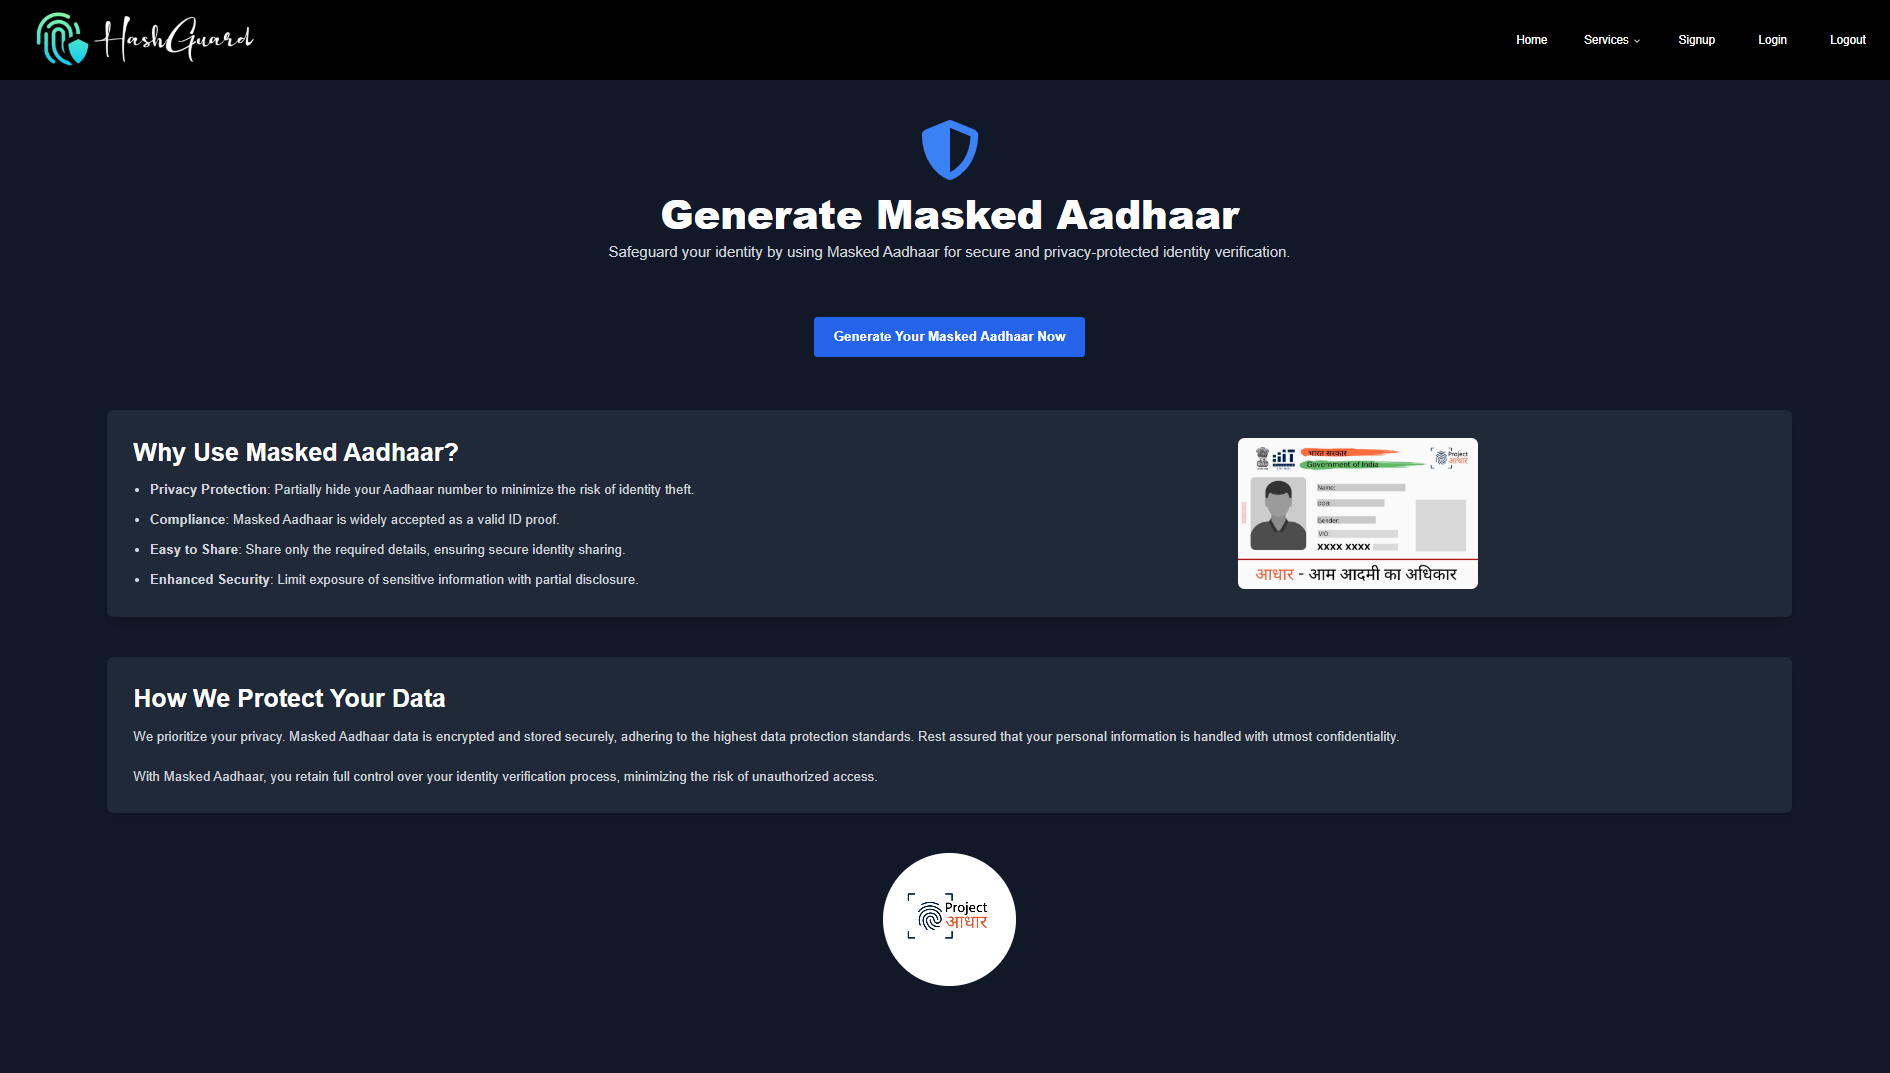
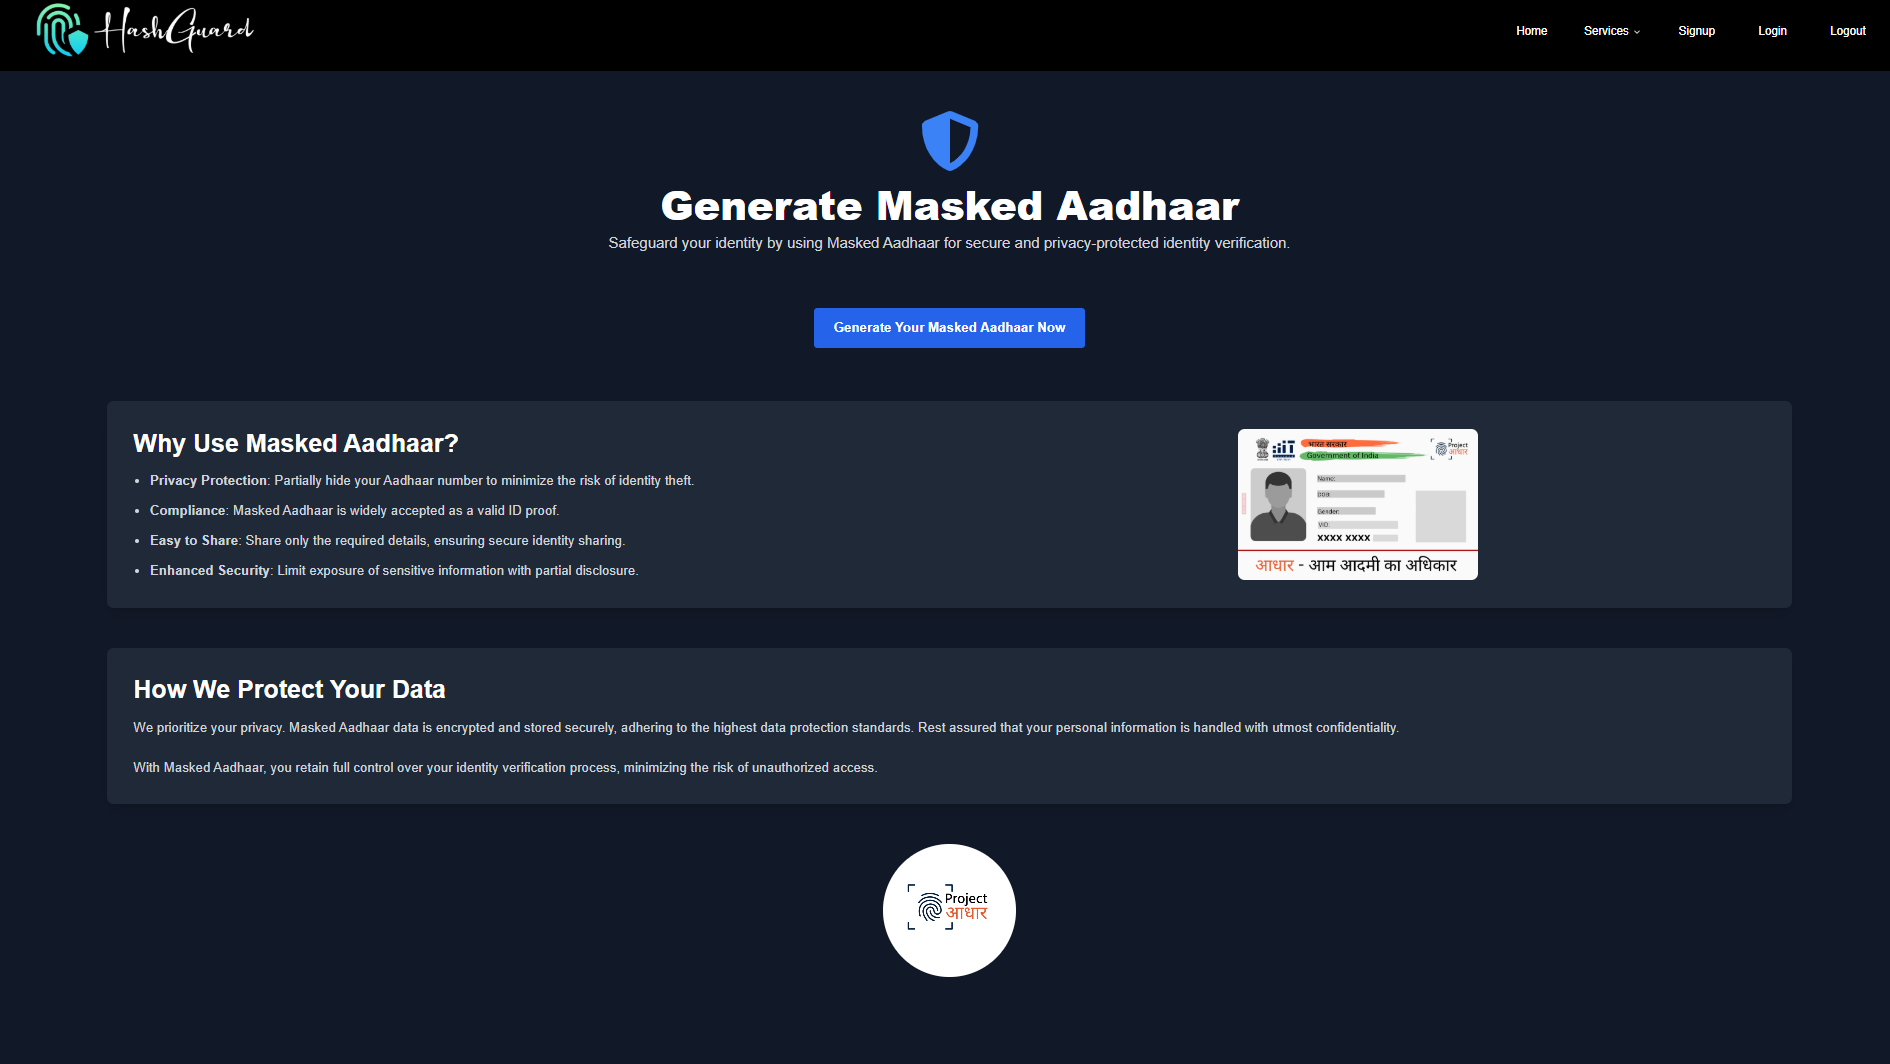
updated readme

diff --git a/README.md b/README.md
@@ -33,15 +33,15 @@ Concluded
 This project is designed to provide a secure identity management system based on the Aadhaar number, using a Virtual ID (VID) for authentication.
 
 <p align="center" style="margin-top: 1rem;">
-<img src="public/homepage_snippet.png" alt="homepage snippet 1" width="400"/>
+<img src="public/homepage_snippet.png" alt="homepage snippet 1" width="450"/>
 </p>
 
 <p align="center" style="margin-top: 1rem;">
-<img src="public/homepage_snippet2.png" alt="homepage snippet 2" width="400"/>
+<img src="public/homepage_snippet2.png" alt="homepage snippet 2" width="450"/>
 </p>
 
 <p align="center" style="margin-top: 1rem;">
-<img src="public/homepage_snippet3.png" alt="homepage snippet 3" width="400"/>
+<img src="public/homepage_snippet3.png" alt="homepage snippet 3" width="450"/>
 </p>
 
 ### **How It Works:**
@@ -50,30 +50,30 @@ This project is designed to provide a secure identity management system based on
    * Users register with their Aadhaar number and email ID. The Aadhaar number is securely stored (hashed/encrypted). 
 
    <p align="center" style="margin-top: 1rem;">
-      <img src="public/signup_page_snippet.png" alt="signup page snippet" width="250"/>
+      <img src="public/signup_snippet.png" alt="signup page snippet" width="450"/>
    </p>
 2. **VID Generation:**  
    * Users can generate a unique VID after verifying their identity through an OTP sent to their registered email. This VID can be used instead of the Aadhaar number for authentication.
 
    <p align="center" style="margin-top: 1rem;">
-   <img src="public/services_snippet.png" alt="services snippet" width="250"/>
+   <img src="public/services_snippet.png" alt="services snippet" width="450"/>
    </p>  
 
 3. **Masked Aadhaar Generation and sent via gmail:**  
    * An Aadhaar-like image is created, displaying the user’s photo (if uploaded) and optional details (address, DOB, etc.), along with the masked Aadhaar number and VID number
 
    <p align="center" style="margin-top: 1rem;">
-      <img src="public/mail_snippet.png" alt="mail snippet 1" width="400"/>
+      <img src="public/mail_snippet.png" alt="mail snippet 1" width="450"/>
    </p>
 
 4. **Authentication:**  
    * Users authenticate using their VID, requiring another OTP verification for added security. A voice CAPTCHA may also be implemented for further verification.
 
    <p align="center" style="margin-top: 1rem;">
-      <img src="public/authenticate_snippet.png" alt="authenticate snippet1" width="400"/>
+      <img src="public/authenticate_snippet.png" alt="authenticate snippet1" width="450"/>
    </p>  
    <p align="center" style="margin-top: 1rem;">
-      <img src="public/authenticate_snippet2.png" alt="authenticate snippet 2" width="400"/>
+      <img src="public/authenticate_snippet2.png" alt="authenticate snippet 2" width="450"/>
    </p>  
 
 5. **VID Retrieval/Replacement:**  
